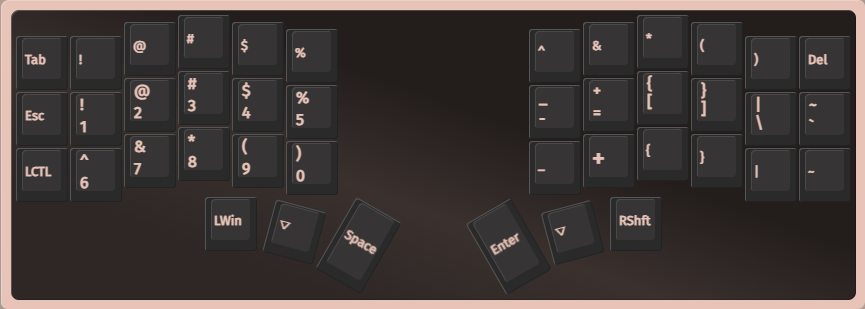
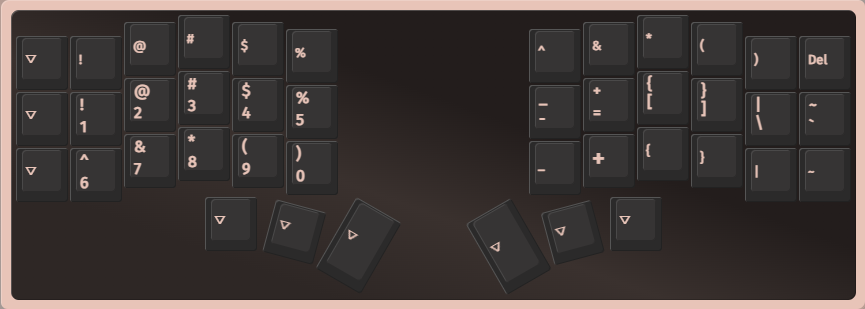
docs: update layer 0 images and add QWERTY and Colemak DH layouts

diff --git a/README.md b/README.md
@@ -10,7 +10,11 @@ Open [usevia.app](https://usevia.app), click on the `SAVE + LOAD` menu and load 
 
 ### Layer 0
 
-![Layer 0](images/layer-0.png)
+QWERTY
+![Layer 0 - QWERTY](images/layer-0-qwerty.png)
+
+Colemak DH
+![Layer 0 - COLEMAK DH](images/layer-0-colemak-dh.png)
 
 ### Layer 1
 
